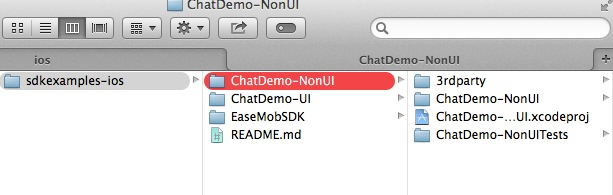
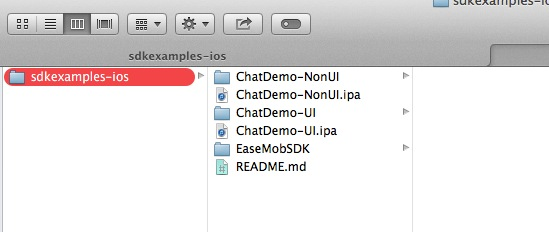
修改quickstart

diff --git a/docs/emchat/ios/quickstart.md b/docs/emchat/ios/quickstart.md
@@ -10,7 +10,7 @@ layout: docs
 
 ## 1.下载环信demo (iOS) ##
 
-###  1.1 什么是环信demo ###
+### 1.1 什么是环信demo ###
 
 环信demo展示了怎样使用环信SDK快速创建一个完整的类微信聊天APP。展示的功能包括：环信SDK初始化，登录，登出，注册消息接收listener, 发送消息。
 
@@ -30,12 +30,14 @@ layout: docs
 
 ## 2.运行环信demo (iOS) ##
 
-1. 在手机上安装chatdemo-nonui.ipa
-    
+1. 在模拟器中运行chatdemo-nonui工程。(或者使用手机上的Safari浏览器访问 [www.easemob.com/downloads/chatdemo.html](http://www.easemob.com/downloads/chatdemo.html)直接安装。)
+
  
-2. 运行chatdemo-nonui: 点击“发送文本消息”，会发送消息给测试机器人（其账号为"bot"）。该测试机器人接收到消息后会把接收的消息原封不动的自动发送回来
+3. 运行chatdemo-nonui: 点击“发送文本消息”，会发送消息给测试机器人（其账号为"bot"）。该测试机器人接收到消息后会把接收的消息原封不动的自动发送回来，显示如下图。
+
 
  ![alt text](demo.png "demo")
+ 
 
 ## 3.快速集成 ##
 
@@ -57,8 +59,20 @@ layout: docs
 ### 5.设置Architectures ###
 ![alt text](Active.png "Active")
 
-### 6.在Info中配置信息 ###
-![alt text](info.png "info")
+### 6.初始化EaseMobSDK ###
+** 在AppDelegate中注册SDK **
+
+	- (BOOL)application:(UIApplication *)application didFinishLaunchingWithOptions:(NSDictionary 	*)launchOptions
+	{
+		self.window = [[UIWindow alloc] initWithFrame:[[UIScreen mainScreen] bounds]];
+		self.window.backgroundColor = [UIColor whiteColor];
+		
+		[[EaseMob sharedInstance] registerSDKWithAppKey:@"easemob-demo#chatdemoui"];
+		[[EaseMob sharedInstance] application:application
+			didFinishLaunchingWithOptions:launchOptions];
+		[self.window makeKeyAndVisible];
+		return YES;
+	}
 
  *	关于EASEMOB_APPKEY，请登录或注册环信开发者[(http://console.easemob.com)](http://console.easemob.com),登陆管理后台,申请APPKEY后，进行相关配置。
 

diff --git a/docs/emchat/ios/ChatDemo_UI.md b/docs/emchat/ios/ChatDemo_UI.md
@@ -19,7 +19,7 @@ layout: docs
 
 #### 1.下载环信Demo及SDK： [下载](http://www.easemob.com/downloads.php) ####
 
-  ![alt text](chatUIDemoFolder.png "Demo")
+  ![alt text](example_layout.png "Demo")
   
 #### 2.运行程序 ####
 **账号不支持中文**
